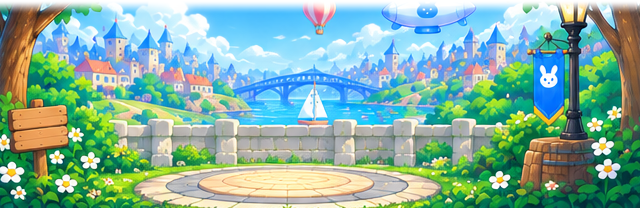
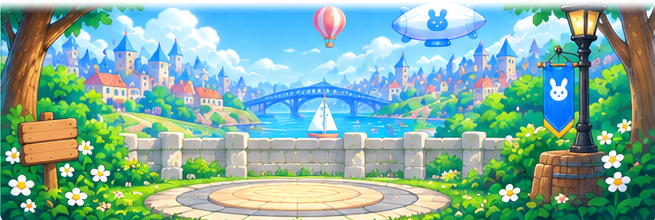
Cắt lại tranh nền màn tạo nhân vật, lấy đủ cả mảng trời
Tôi cắt tranh từ y=798 để né cái nhãn "Background (Tạo nhân vật)" vẽ đè
lên góc trên trái. Nhưng nhãn chỉ chiếm tới y=783, còn khinh khí cầu và
khí cầu nằm ở y 787-830 — cắt từ 798 là xén đúng vào chúng và mất luôn
mảng trời phía trên.

Đo lại bằng cách dò màu nền nhãn theo từng hàng: nhãn hết ở y=783. Cắt
từ 785 nên vừa sạch nhãn vừa giữ nguyên trời, hai cây hai bên, biển gỗ,
cột đèn và cả hai khí cầu. Tranh từ 640×208 thành 655×220.

Tâm vòng gạch đổi theo khung cắt mới nên chỗ đứng của nhân vật cũng tính
lại: đo được lệch 0px ở 1600×900 và 1366×768.

diff --git a/client/styles.css b/client/styles.css
@@ -1371,8 +1371,11 @@ button.primary.big-cta:active:not(:disabled) { transform: translateY(2px); box-s
   background:
     url('/assets/ui/leaves.png') left top / clamp(200px, 24vw, 340px) auto no-repeat,
     url('/assets/ui/leaves.png') right top / clamp(170px, 20vw, 290px) auto no-repeat,
-    url('/assets/ui/balloon.png') 60% 15% / clamp(70px, 8vw, 120px) auto no-repeat,
-    url('/assets/ui/blimp.png') 28% 8% / clamp(120px, 14vw, 210px) auto no-repeat,
+    /* Khinh khí cầu và khí cầu thả lên khoảng trời phía trên. Trong tranh cũng
+       có sẵn hai cái, nhưng chúng nằm ở mép trên tranh nên bị nhân vật và bảng
+       chọn che gần hết — mấy cái này lấp phần trời còn trống. */
+    url('/assets/ui/balloon.png') 58% 14% / clamp(70px, 8vw, 120px) auto no-repeat,
+    url('/assets/ui/blimp.png') 26% 7% / clamp(120px, 14vw, 210px) auto no-repeat,
     url('/assets/ui/create.png') bottom center / 100% auto no-repeat,
     /* Dải trời nối lên phía trên phải KẾT THÚC đúng màu mép trên của tranh, và
        mép trên của tranh nằm ở đâu thì tuỳ bề ngang màn hình — JS đo rồi đặt

diff --git a/client/src/scenes/character.js b/client/src/scenes/character.js
@@ -27,7 +27,7 @@ const genderOf = (bodyType) => GENDERS.find((g) => g.id === bodyType) ?? GENDERS
  * theo đúng cách phủ của CSS: `100% auto` neo đáy, tức là tranh kéo vừa bề
  * ngang, cao theo tỉ lệ, dính đáy.
  */
-const PLAZA = { w: 640, h: 208, x: 273, y: 186 };
+const PLAZA = { w: 655, h: 220, x: 283, y: 199 };
 
 function plazaPointIn(box) {
   const s = box.width / PLAZA.w;
